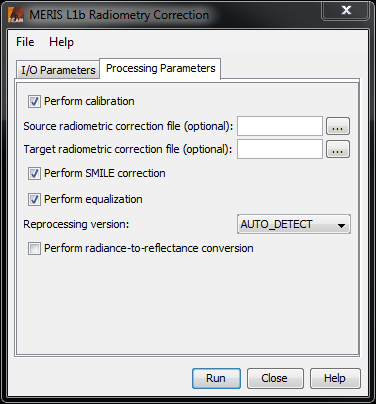
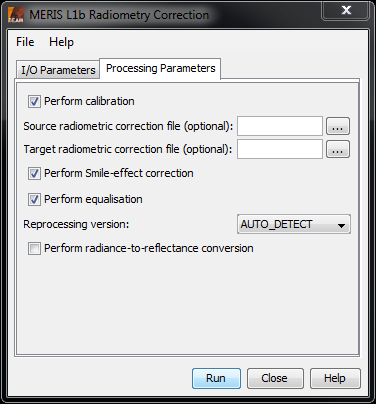
updated help

Changed region(s): [[0.4973, 0.9208, 0.6436, 0.9802], [0.234, 0.4158, 0.5266, 0.4455], [0.2926, 0.4752, 0.3218, 0.505]]

diff --git a/beam-meris-radiometry/src/main/resources/doc/help/radiometry/MerisRadiometryProcessorDescription.html b/beam-meris-radiometry/src/main/resources/doc/help/radiometry/MerisRadiometryProcessorDescription.html
@@ -73,9 +73,44 @@
 
 <p class="i1">
     <b>Perform calibration: </b><br>
-    Performs a recalibration of the MERIS data. The calibration coefficients given by the 'Source radiometric
-    correction file'
+    Performs a recalibration of the MERIS data. The coefficients given by the 'Source radiometric
+    correction file' are applied to withdraw the calibration. Afterwards the coefficients of the 'Target radiometric
+    correction file' are applied.
 </p>
+
+<p class="i1">
+    <b>Source radiometric correction file: </b><br>
+    Specifies the coefficients to revert the calibration.
+</p>
+
+<p class="i1">
+    <b>Target radiometric correction file: </b><br>
+    Specifies the coefficients to be applied to the target product.
+</p>
+
+<p class="i1">
+    <b>Perform Smile-effect correction: </b><br>
+    Enables or disables the correction of the Smile-effect.
+</p>
+
+<p class="i1">
+    <b>Perform equalisation: </b><br>
+    Enables or disables the removal of detector-to-detector systematic radiometric differences.
+</p>
+
+<p class="i1">
+    <b>Reprocessing version: </b><br>
+    Specifies from which reprocessing the source product comes from. Possible values are AUTO_DETECT,
+    REPROCESSING_2 and REPROCESSING_3.
+</p>
+
+<p class="i1">
+    <b>Perform radiance-to-reflectance conversion: </b><br>
+    Perform a conversion from radiance to reflectance values. This can not be selected if ENVISAT is chosen as
+    output format.
+</p>
+
+
 <hr>
 </body>
 </html>
